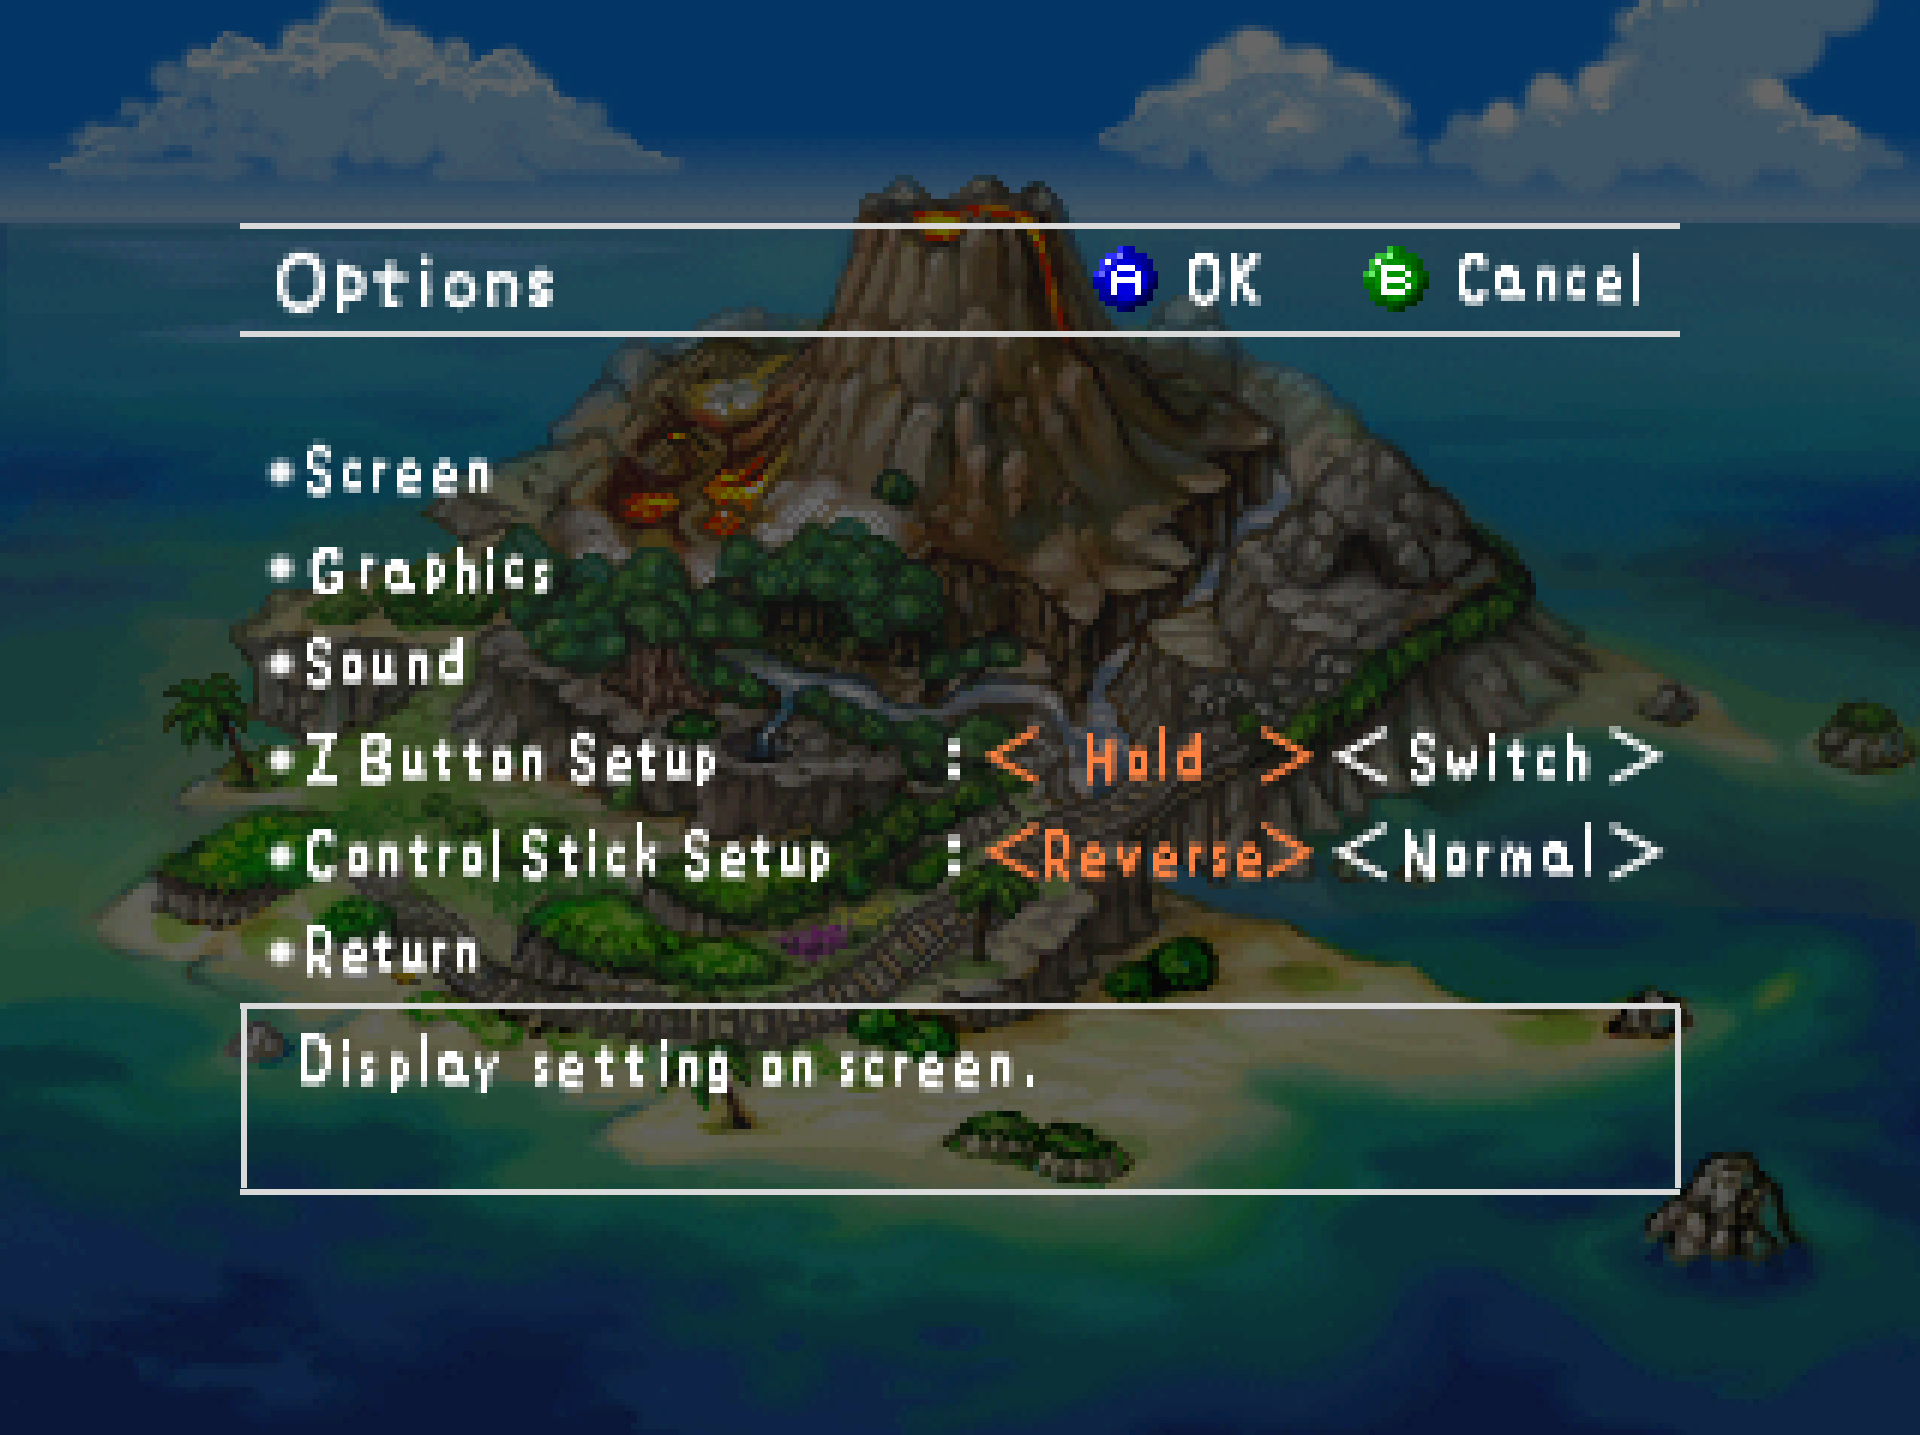
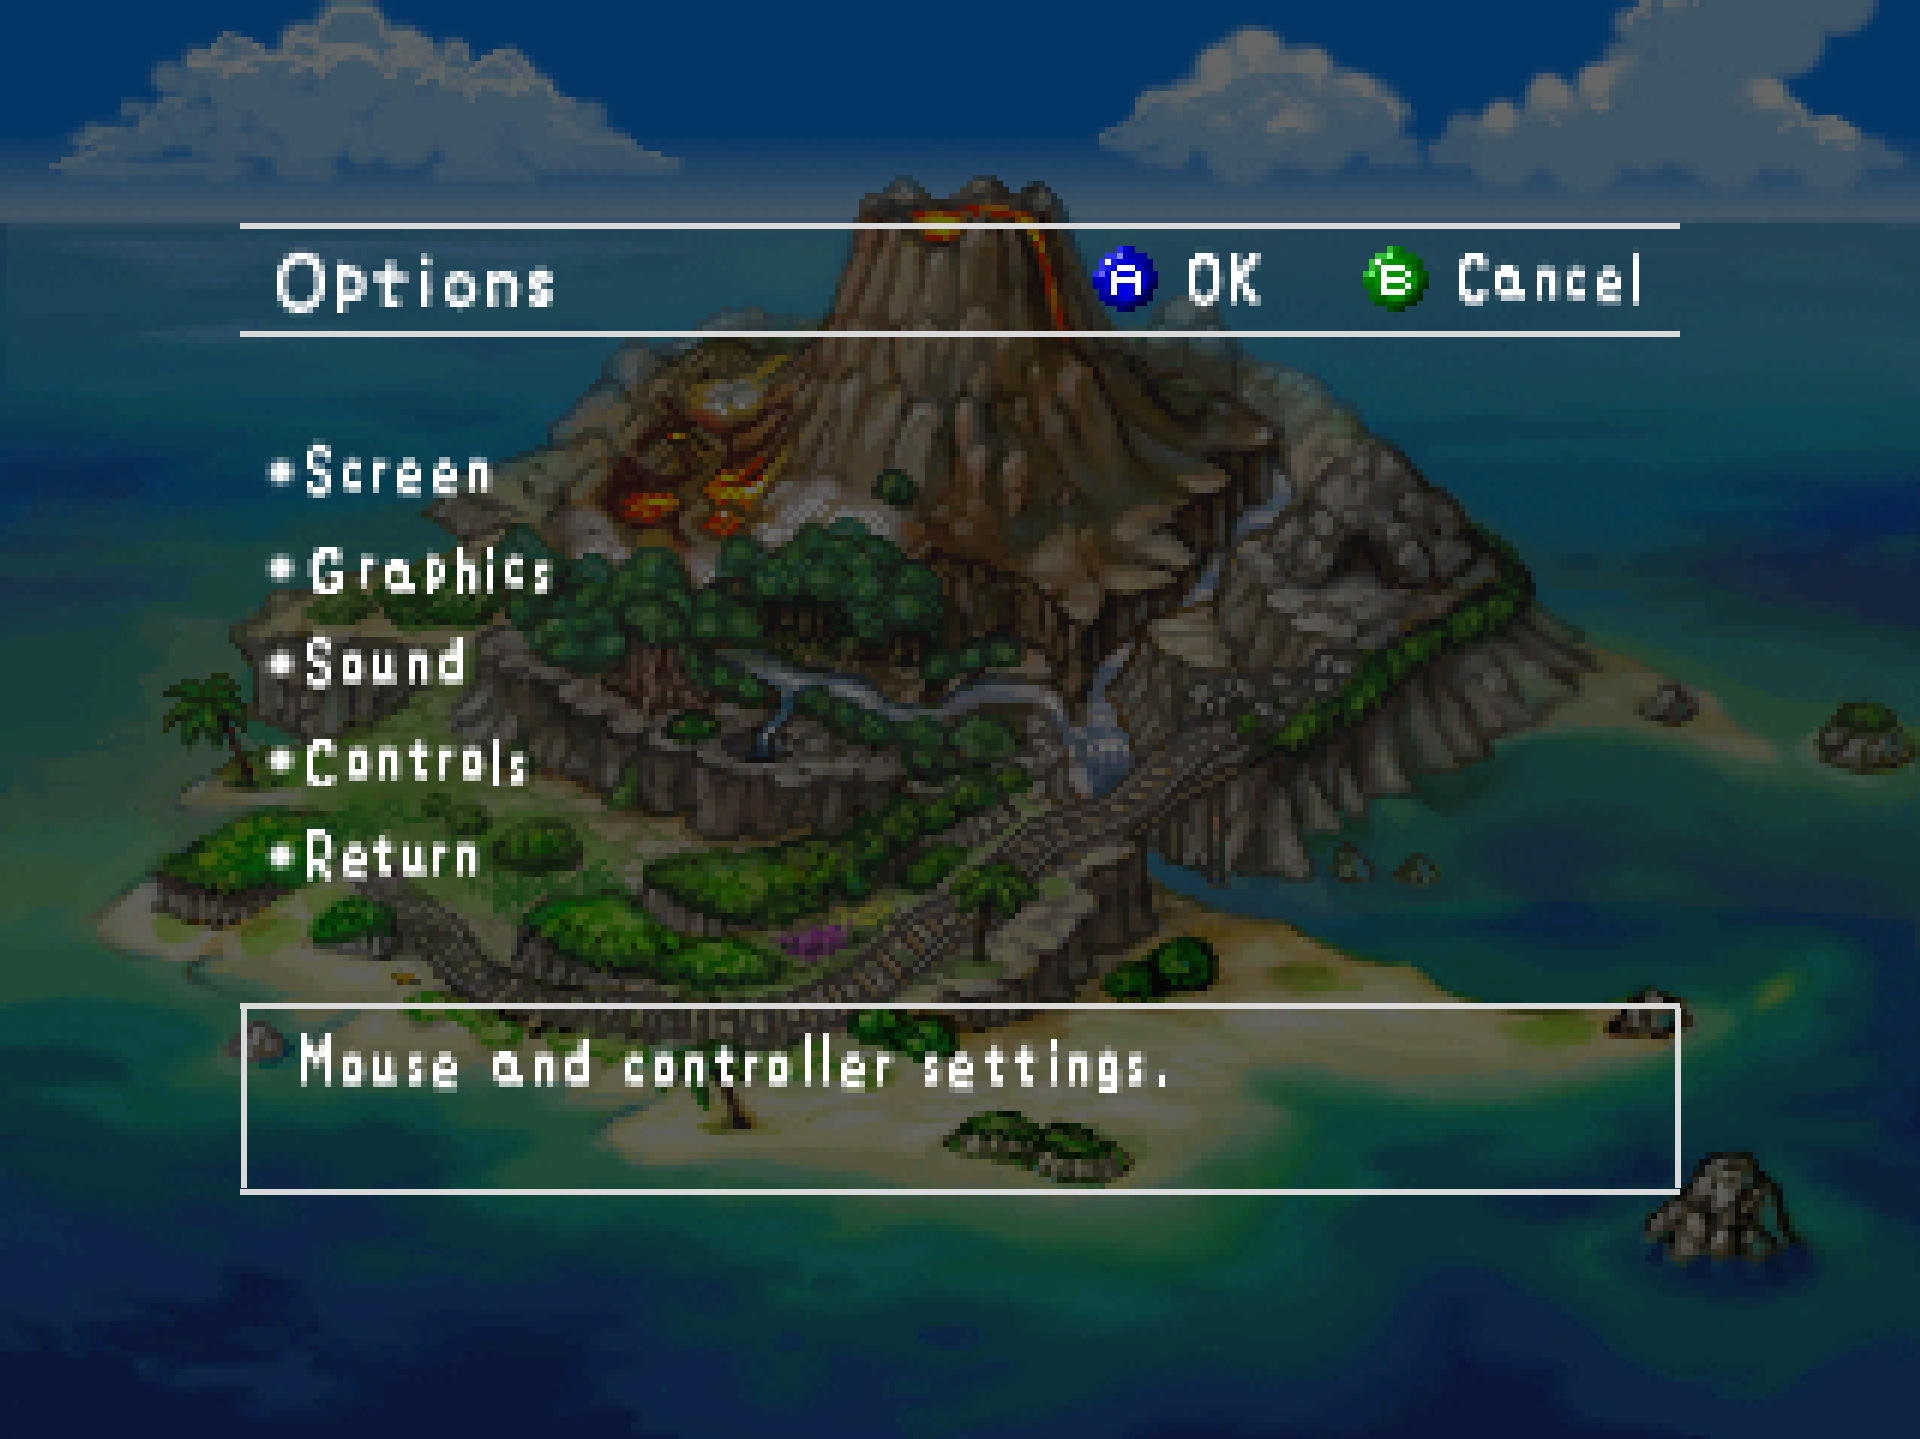
The Controls page's scroll arrows sway and hop as the Graphics page's do; the gallery shows the 1.0.1 Options screen and the Controls page
The arrows were static; the author found them wanting the Graphics page's
motion, the eased four-phase sway and the hop on a scroll, so that block
now runs in the Controls page's loop too, with the same numbers. The
Options list stays at the cartridge's own five lines (73 to 137, the
stock screen's), which the author asked be checked against the original.

Two screenshots by JackandBeans, cropped to the picture as the others are:
the Options screen with its five entries, and the Controls page's first
six rows with the edge arrow.

diff --git a/patches/src/graphics_menu_patch.c b/patches/src/graphics_menu_patch.c
@@ -1628,7 +1628,8 @@ static void snap_controls_page(void) {
     s32 sel, i, moved, hiddenCount;
     s32 v;
     s32 top;
-    u8 pulseState, pulseCounter;
+    u8 pulseState, pulseCounter, bobTick;
+    u8 nudgeUp, nudgeDn;
     u8 entry[CTL_ROWS];
 
     if (DIR_MAGIC != 0x53474130) {
@@ -1714,6 +1715,9 @@ static void snap_controls_page(void) {
     snap_ctl_layout(top);
     pulseState = 0;
     pulseCounter = 0;
+    bobTick = 0;
+    nudgeUp = 0;
+    nudgeDn = 0;
 
     ohWait(2);
 
@@ -1751,9 +1755,11 @@ static void snap_controls_page(void) {
             if (sel < top) {
                 top = sel;
                 snap_ctl_layout(top);
+                nudgeUp = 12;
             } else if (sel >= top + CTL_VISIBLE) {
                 top = sel - (CTL_VISIBLE - 1);
                 snap_ctl_layout(top);
+                nudgeUp = 12;
             }
             snap_swap_strip(descStrip, snap_ctl_desc_str(sel));
             auPlaySoundWithParams(0x41, 0x7FFF, 0x40, 1.0f, 0);
@@ -1765,9 +1771,11 @@ static void snap_controls_page(void) {
             if (sel < top) {
                 top = sel;
                 snap_ctl_layout(top);
+                nudgeDn = 12;
             } else if (sel >= top + CTL_VISIBLE) {
                 top = sel - (CTL_VISIBLE - 1);
                 snap_ctl_layout(top);
+                nudgeDn = 12;
             }
             snap_swap_strip(descStrip, snap_ctl_desc_str(sel));
             auPlaySoundWithParams(0x41, 0x7FFF, 0x40, 1.0f, 0);
@@ -1824,6 +1832,33 @@ static void snap_controls_page(void) {
                         pulseState = 0;
                     }
                     break;
+            }
+        }
+
+        /* The arrows breathe and hop exactly as the Graphics page's do
+         * (the block above snap_graphics_page's wait): the eased four-phase
+         * sway, and the two-pixel-further hop when the list scrolls. */
+        bobTick++;
+        if (nudgeUp > 0) {
+            nudgeUp--;
+        }
+        if (nudgeDn > 0) {
+            nudgeDn--;
+        }
+        {
+            const s32 phase = (bobTick >> 3) & 3;
+            const s16 sway = (s16) ((phase == 3) ? 1 : phase);
+            const s16 hopUp = (s16) ((nudgeUp >= 7) ? 4 : ((nudgeUp >= 3) ? 2 : 1));
+            const s16 hopDn = (s16) ((nudgeDn >= 7) ? 4 : ((nudgeDn >= 3) ? 2 : 1));
+            const s16 offUp = (nudgeUp > 0) ? hopUp : sway;
+            const s16 offDn = (nudgeDn > 0) ? hopDn : sway;
+            GObj* upArrow = (GObj*) PAGE_ARROW_UP;
+            GObj* dnArrow = (GObj*) PAGE_ARROW_DN;
+            if ((upArrow != NULL) && (upArrow->data.sobj != NULL)) {
+                upArrow->data.sobj->sprite.y = ARROW_UP_Y - offUp;
+            }
+            if ((dnArrow != NULL) && (dnArrow->data.sobj != NULL)) {
+                dnArrow->data.sobj->sprite.y = ARROW_DN_Y + offDn;
             }
         }
         ohWait(1);

diff --git a/docs/SCREENSHOTS.md b/docs/SCREENSHOTS.md
@@ -61,10 +61,10 @@ is in the game's own backdrop picture; the console drew the same pixels.
 
 <a href="screenshots/08-options.png"><img src="screenshots/08-options.png" width="640" alt="The Options screen"></a>
 
-**Options.** The game's own Options screen as 1.0.0 shipped it; Graphics
-is the port's entry, and Sound opens the port's Sound page. Since then a
-Controls entry has joined them and taken the Z Button and Control Stick
-rows into its own page.
+**Options.** The game's own Options screen, its five rows at the
+cartridge's own lines: Graphics and Controls are the port's entries, and
+Sound opens the port's Sound page. The Z Button and Control Stick rows the
+cartridge kept here live on the Controls page now.
 
 <a href="screenshots/09-graphics.png"><img src="screenshots/09-graphics.png" width="640" alt="The Graphics page"></a>
 
@@ -78,6 +78,13 @@ console's (README, "The rule the port follows").
 
 **Sound.** Master, music, effects and shutter volumes, speaker output, and
 Background Mute for when the window loses focus.
+
+<a href="screenshots/10b-controls.png"><img src="screenshots/10b-controls.png" width="640" alt="The Controls page"></a>
+
+**Controls.** Z Button and Control Stick, the game's own two settings,
+then Mouse Aim, Mouse Speed, Zoom Speed, Camera Tilt, and below the edge
+arrow, Gyro Aim and Gyro Speed: eight rows the page scrolls through six
+at a time, the arrows swaying as the Graphics page's do.
 
 ## The Snap Station
 
